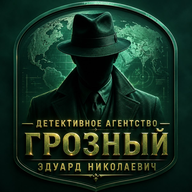
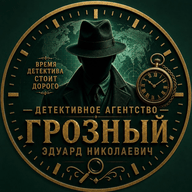
прайс: убраны бесплатность и договор; эмблема заменена на новую
Прайс (RU+EN):
- удалена строка «Консультация бесплатна. Окончательная стоимость
  фиксируется в договоре до начала работ» перед кнопкой: договор
  заключается редко, страница уже трижды говорит «зависит от задачи»
- пункт шапки «Консультация для Вас бесплатная» →
  «Предварительная консультация по Вашей задаче»: описывает характер
  разговора вместо обещания не брать денег
- meta description без «Консультация бесплатно» — перечисление услуг

Эмблема: все девять файлов перегенерированы из новой круглой эмблемы
(favicon.ico 16/32/48, favicon-16/32, apple-touch-icon, android-chrome
192/512, founder.png/webp/og.jpg), PNG пережаты pngquant.
alt изображения уточнён под новую эмблему с девизом.

diff --git a/layouts/_default/price.html b/layouts/_default/price.html
@@ -107,7 +107,6 @@
           </li>
           {{ end }}
         </ul>
-        <p class="mt-6">{{ index $p.pricing.footer $lang }}</p>
       </div>
       
       {{/* Single Primary CTA at the bottom */}}

diff --git a/content/price.ru.md b/content/price.ru.md
@@ -1,6 +1,6 @@
 ---
 translationKey: "price"
 title: "Прайс"
-description: "Стоимость услуг детективного агентства. Консультация бесплатно."
+description: "Услуги лицензированного детективного агентства в Москве: досье, поиск людей и имущества, наблюдение, проверка партнёров и персонала, IT-расследования."
 layout: "price"
 ---

diff --git a/content/price.en.md b/content/price.en.md
@@ -1,6 +1,6 @@
 ---
 translationKey: "price"
 title: "Price"
-description: "Detective agency service rates. Free consultation."
+description: "Services of a licensed detective agency in Moscow: dossiers, locating people and assets, surveillance, partner and personnel checks, IT investigations."
 layout: "price"
 ---
